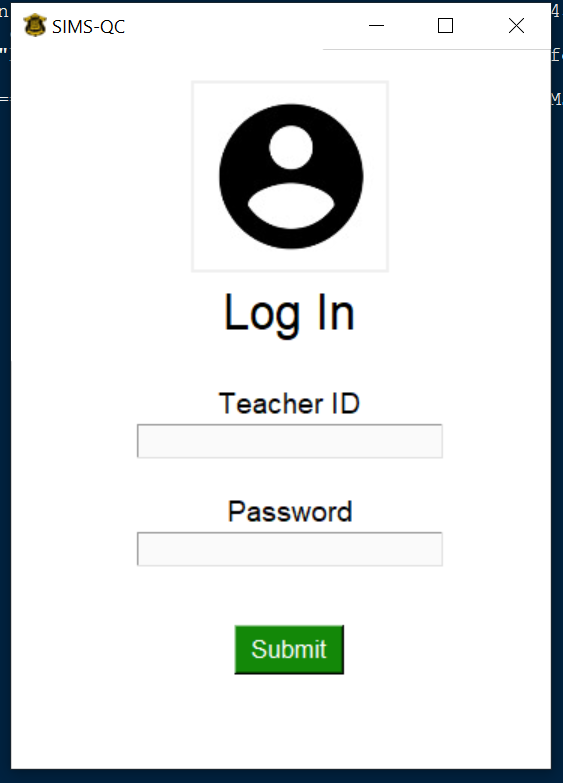
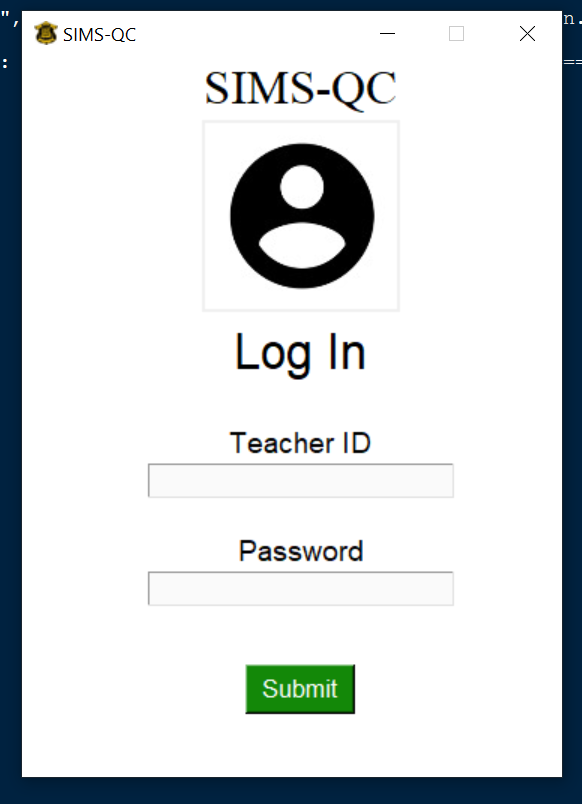
Add new screen cap of login window

diff --git a/login.py b/login.py
@@ -4,6 +4,13 @@ from tkinter import *
 from tkinter import messagebox
 from PIL import ImageTk, Image
 
+
+def onClick():
+    password_con = Label(root, text="Confirm Password", font=("Arial", 14))
+    confirm_ent = Entry(root, width=25, bg="#fafafa", font=("Times New Roman", 12))    
+
+
+
 #root configurations
 root = Tk()
 root.title("SIMS-QC")
@@ -14,31 +21,36 @@ root.resizable(width=False, height=False)
 
 
 #UI widgets in order of display
-padding_one = Label(root, text="", bg="#ffffff")
-padding_two = Label(root, text="", padx=40, bg="#ffffff")
+sign_up = Button(root, text="Sign Up", bg="#ffffff", command=onClick)
+sims = Label(root, text="SIMS-QC", bg="#ffffff", font=("Times New Roman", 24))
+padding_one = Label(root, text="", padx=40, bg="#ffffff")
 account_icon = ImageTk.PhotoImage(Image.open("images/account.jpg"))
 account_img = Label(image=account_icon)
 log_in = Label(root, text="Log In", bg="#ffffff", pady=5, font=("Arial", 25))
-padding_three = Label(root, text="", bg="#ffffff")
+padding_two = Label(root, text="", bg="#ffffff")
 teacher_id = Label(root, text="Teacher ID", bg="#ffffff", font=("Arial", 14))
 teacherid_ent = Entry(root, width=25, bg="#fafafa", font=("Times New Roman", 12))
-padding_four = Label(root, text="", bg="#ffffff")
+padding_three = Label(root, text="", bg="#ffffff")
 pass_word = Label(root, text="Password", bg="#ffffff", font=("Arial", 14))
 password_ent = Entry(root, width=25, bg="#fafafa", font=("Times New Roman", 12))
-padding_five = Label(root, text="", bg="#ffffff", pady=10)
+padding_four = Label(root, text="", bg="#ffffff", pady=10)
 submit_btn = Button(root, text="Submit", font=("Arial", 13), bg="#138808", fg="#ffffff", width=7)
 
 
 #widgets being displayed using the grid method
-padding_one.grid(column=3, row=1)
-padding_two.grid(column=2, row=2)
+sims.grid(column=3, row=1)
+padding_one.grid(column=2, row=2)
 account_img.grid(column=3, row=2)
 log_in.grid(column=3, row=3)
-padding_three.grid(column=3, row=4)
+padding_two.grid(column=3, row=4)
 teacher_id.grid(column=3, row=5)
 teacherid_ent.grid(column=3, row=6)
-padding_four.grid(column=3, row=7)
+padding_three.grid(column=3, row=7)
 pass_word.grid(column=3, row=8)
 password_ent.grid(column=3, row=9)
-padding_five.grid(column=3, row=10)
+padding_four.grid(column=3, row=10)
 submit_btn.grid(column=3, row=11)
+
+
+
+root.mainloop()
